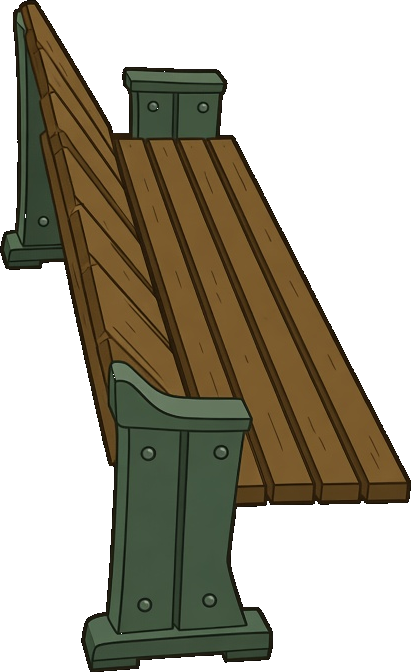
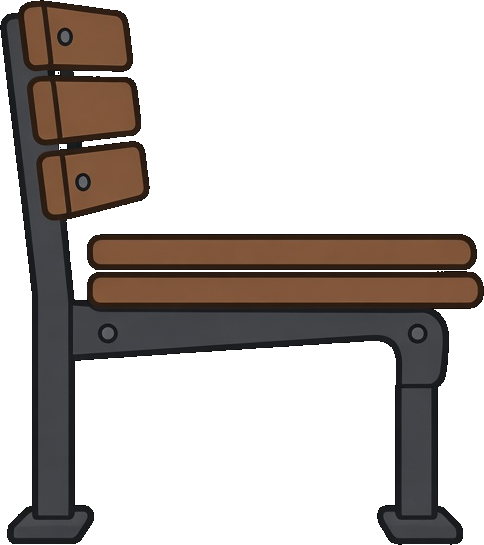
Draw the bench flat, like the shops, and larger.
The old one receded, so it sat on the flat street like a sticker.

diff --git a/game-data.js b/game-data.js
@@ -44,7 +44,7 @@ const DETAILS = [
   { name: 'lamp', x: 646, y: 1956, w: 150, h: 715 },
   { name: 'postbox', file: 'postbox.png', w: 400, h: 900, cap: 64 },
   { name: 'bin', file: 'bin.png', w: 571, h: 750, cap: 52 },
-  { name: 'bench', file: 'bench.png?v=4', w: 411, h: 672, cap: 64 },
+  { name: 'bench', file: 'bench.png?v=5', w: 484, h: 545, cap: 78 },
   { name: 'tree', file: 'tree.png?v=2', w: 463, h: 864, cap: 78 },
   { name: 'board', file: 'board.png', w: 635, h: 940, cap: 58 }
 ];

diff --git a/index-new.html b/index-new.html
@@ -72,7 +72,7 @@
     </div>
   </div>
 
-<script src="game-data.js?v=23"></script>
+<script src="game-data.js?v=24"></script>
 <script src="game.js?v=62"></script>
 </body>
 </html>

diff --git a/index-new.html.html b/index-new.html.html
@@ -72,7 +72,7 @@
     </div>
   </div>
 
-<script src="game-data.js?v=23"></script>
+<script src="game-data.js?v=24"></script>
 <script src="game.js?v=62"></script>
 </body>
 </html>

diff --git a/index.html b/index.html
@@ -72,7 +72,7 @@
     </div>
   </div>
 
-<script src="game-data.js?v=23"></script>
+<script src="game-data.js?v=24"></script>
 <script src="game.js?v=62"></script>
 </body>
 </html>
